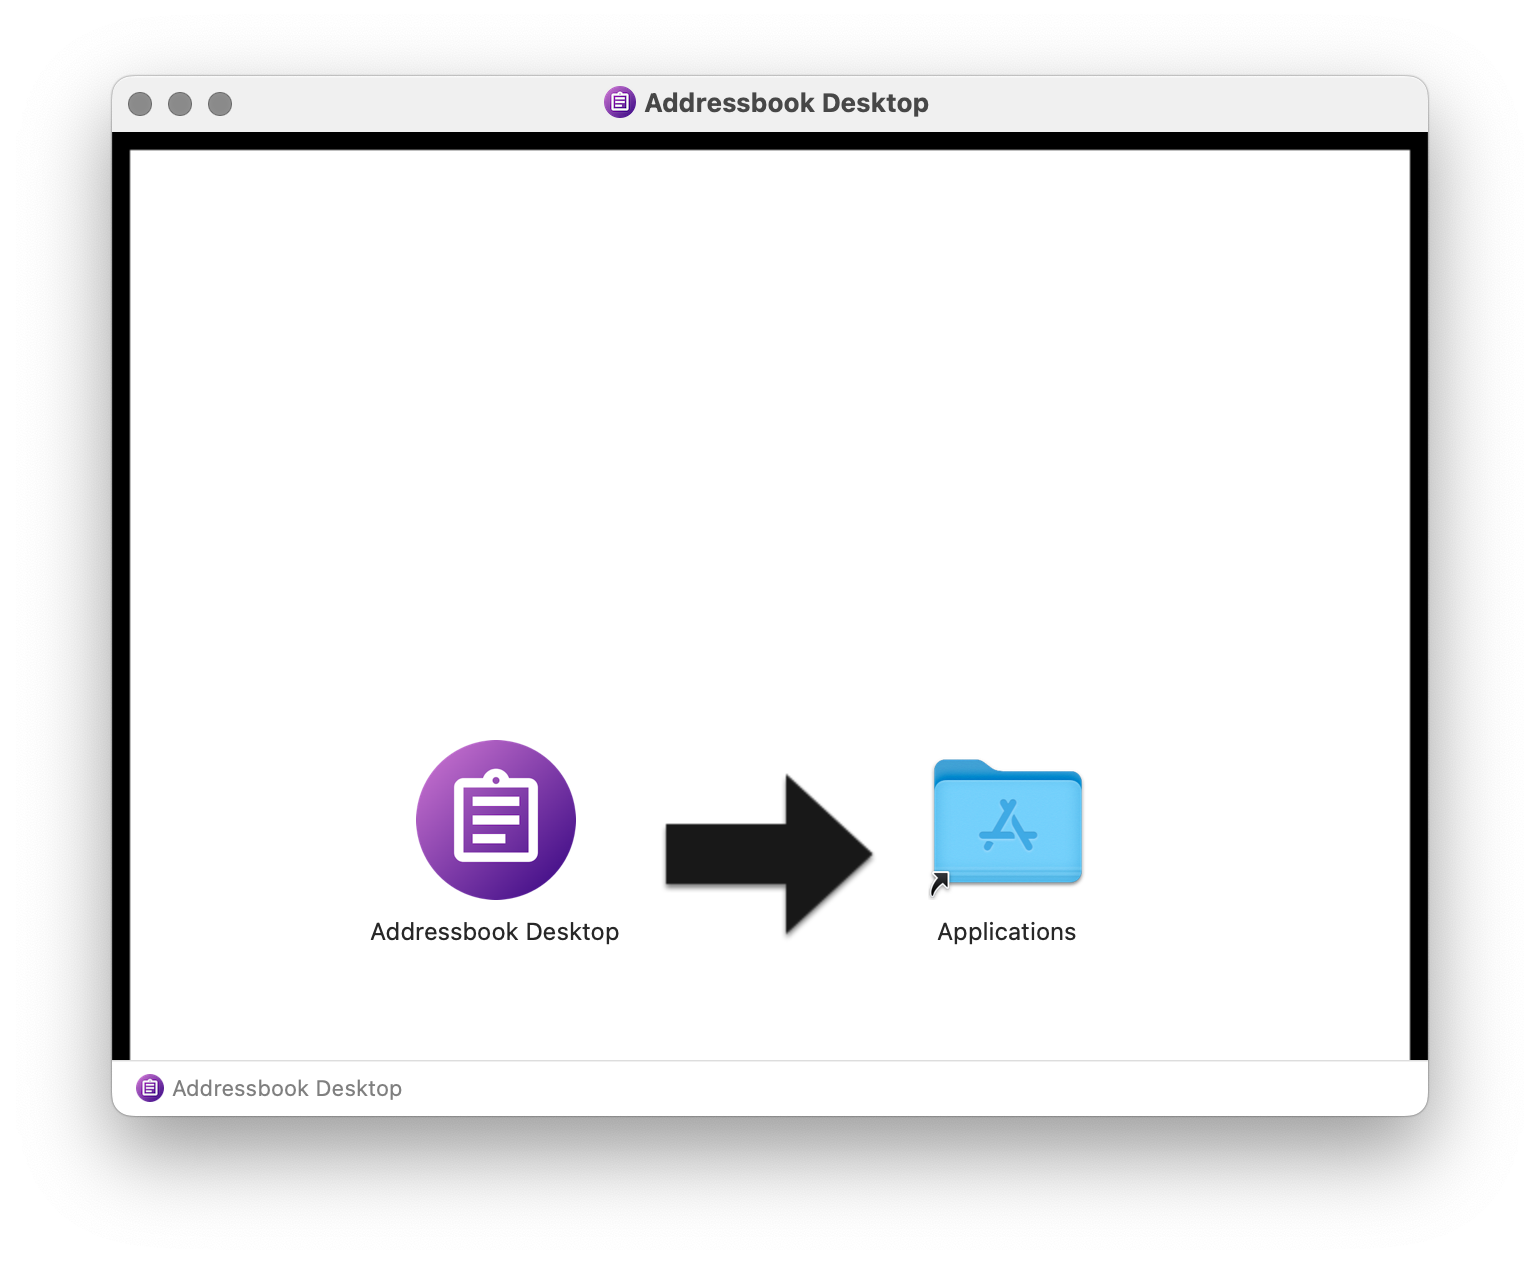
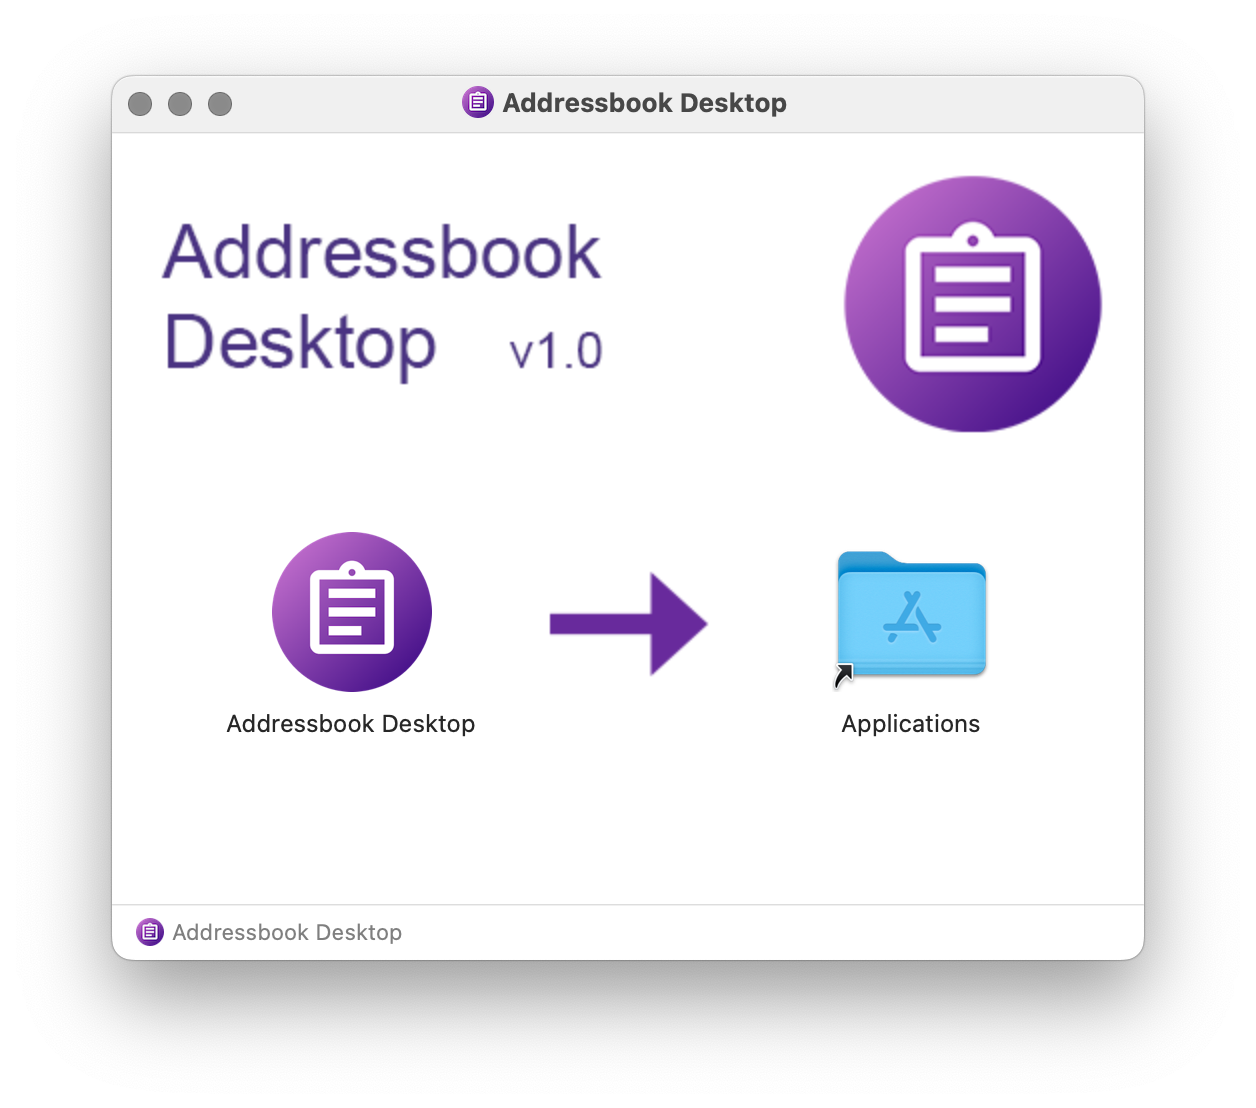
Refactoring

diff --git a/forge.config.js b/forge.config.js
@@ -17,8 +17,27 @@ module.exports = {
         {
             name: '@electron-forge/maker-dmg',
             config: {
+                additionalDMGOptions: {
+                    window: {
+                        size: {
+                            height: 420,
+                            width: 516
+                        }
+                    }
+                },
                 format: 'ULFO',
-                icon: __dirname + '/assets/icon.icns'
+                icon: __dirname + '/assets/icon.icns',
+                overwrite: true,
+                background: __dirname + '/assets/background.png',
+                contents: [
+                    {"x": 400, "y": 240, "type": "link", "path": "/Applications"},
+                    {
+                        "x": 120,
+                        "y": 240,
+                        "type": "file",
+                        "path": __dirname + "/out/Addressbook Desktop-darwin-x64/Addressbook Desktop.app"
+                    }
+                ]
             }
         }
     ],
